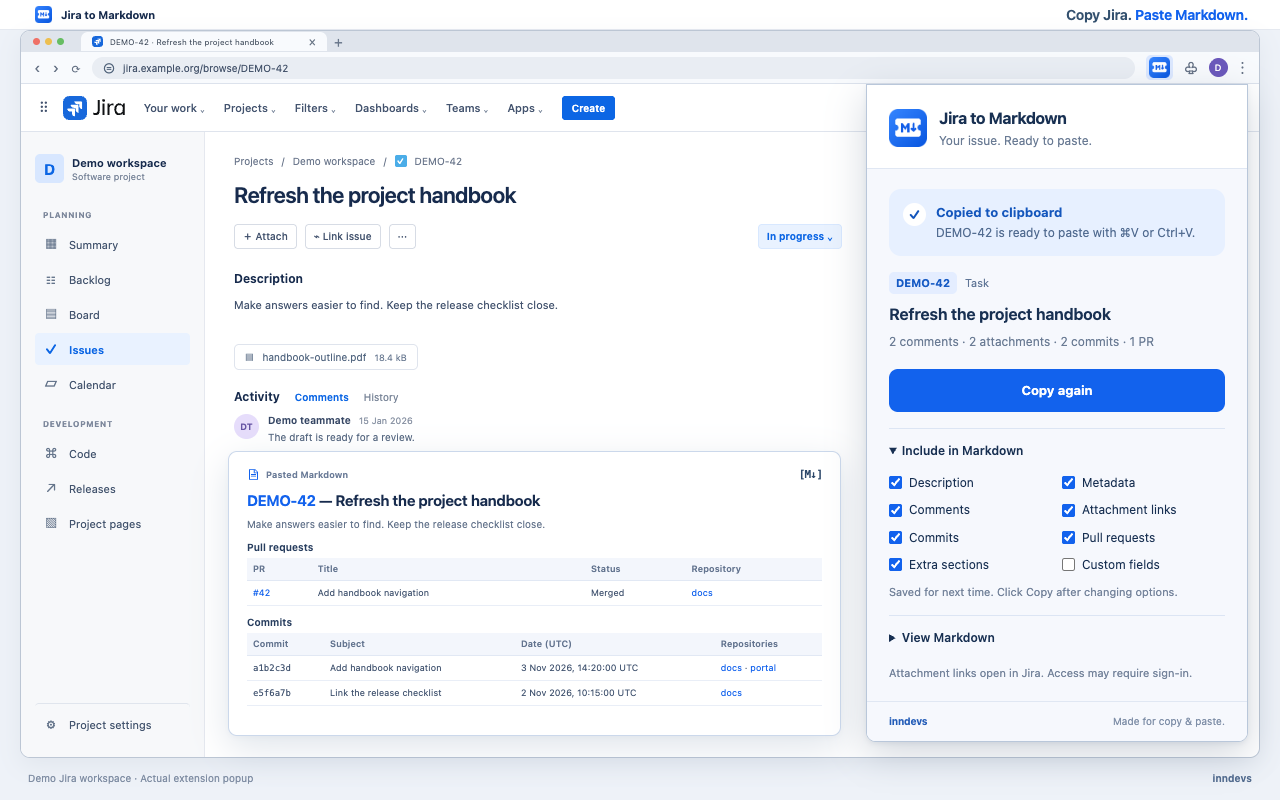
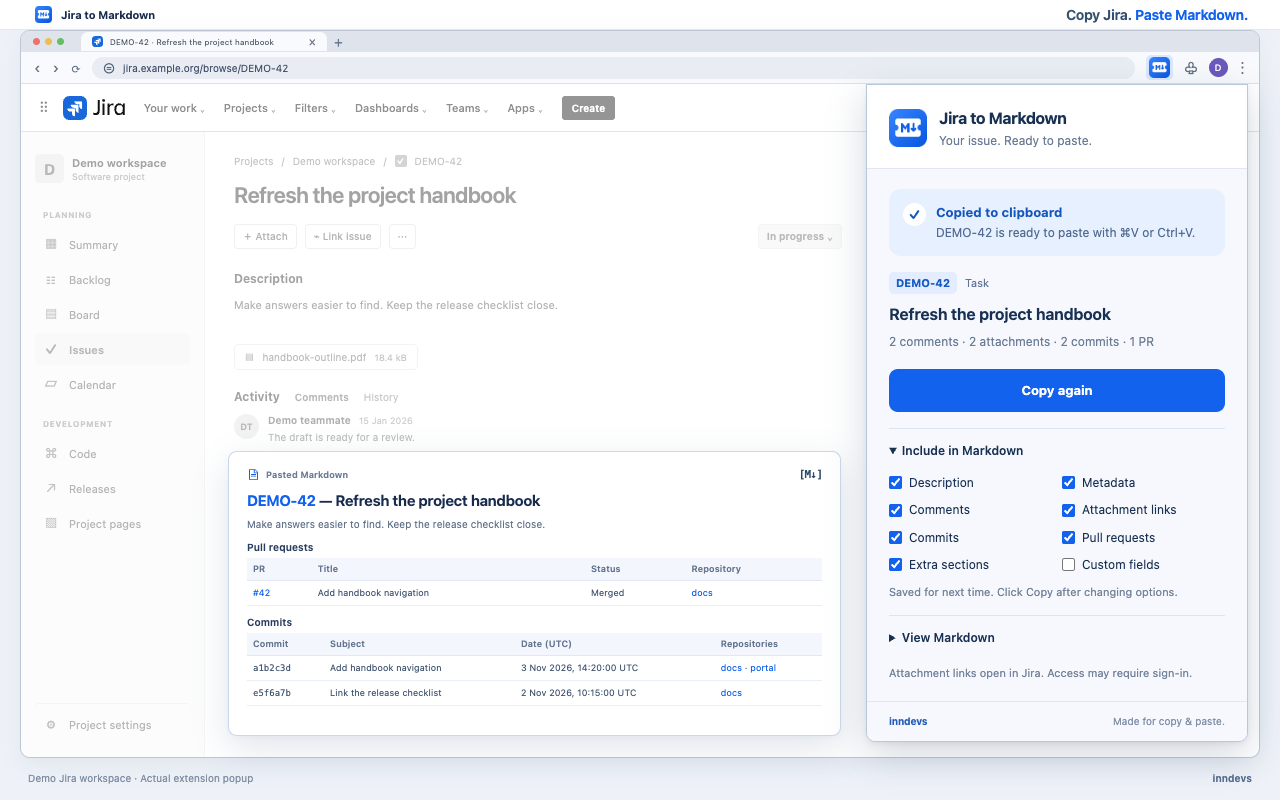
Mute Jira background to emphasize extension in store screenshot

diff --git a/store/screenshot.html b/store/screenshot.html
@@ -70,6 +70,9 @@
     .comment .byline { margin-bottom: 3px; font-size: 10px; font-weight: 650; color: #344563; }
     .comment time { margin-left: 8px; font-size: 9px; color: #8993a4; font-weight: 400; }
     .comment p { font-size: 10px; color: #596a82; }
+    /* Keep the source issue as context; the popup and copied output are the focus. */
+    .sidebar, .issue { filter: grayscale(1); opacity: .43; }
+    .jira-nav > :not(.jira-logo) { filter: grayscale(1); opacity: .65; }
     .preview { position: absolute; left: 228px; top: 451px; width: 613px; height: 285px; padding: 16px 18px; background: #fff; border: 1px solid #cbd8eb; border-radius: 9px; box-shadow: 0 12px 35px #12386820, 0 2px 5px #12386807; }
     .preview-label { display: flex; justify-content: space-between; align-items: center; margin-bottom: 10px; font-size: 9px; line-height: 1; font-weight: 650; color: #6b7c98; }
     .preview-label .notes-title { display: flex; align-items: center; gap: 6px; }
